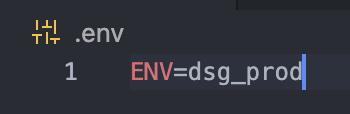
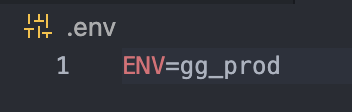
more readme updates

Changed region(s): [[0.3429, 0.4554, 0.8857, 0.8036], [0.0571, 0.1339, 0.3714, 0.4018], [0.1429, 0.4821, 0.2286, 0.7232]]

diff --git a/README.md b/README.md
@@ -8,20 +8,42 @@ Playwright test automation framework for ecomm websites using typescript
 
     npm ci
 
+### Run a test as a test
+
+Run the following cmd:
+
+    npm test
+
+This will run 2 secured athlete login tests on the dsg prod site since that is the default when no environment is set. Set an environment next.
+
 
 ### Create .env file at the project root:
 
-    te-playwright-ts/.env
+    ~/.env
 <img src="images/image.png" alt="text" width="200"/>
 
 
 ### Setting Test Environment
 
-Environment can be set in the command line or .env file.  If no environment is set, it will default to dsg_prod. Environments can be found in te-playwright-ts/globalEnvironments.json file.
+Environment can be set in the command line or .env file.  Environments can be found in ~/globalEnvironments.json file.
 
 <img src="images/image2.png" alt="text" width="200"/>
 
 
-### Documentation for running tests:
+### Run two more tests
+
+Set ENV=gg_prod in the .env file like the image above and run the folowing cmd:
+
+    npm test
+
+This will run 2 secured athlete login tests on the golf galaxy prod site.
+
+Run the following cmd to run the test one more time after setting the environment in the cmd line:
+
+    ENV=pl_prod npm test
+
+This will run the same tests on the public lands prod site.
+
+### Documentation for running other tests:
 
     https://playwright.dev/docs/running-tests
